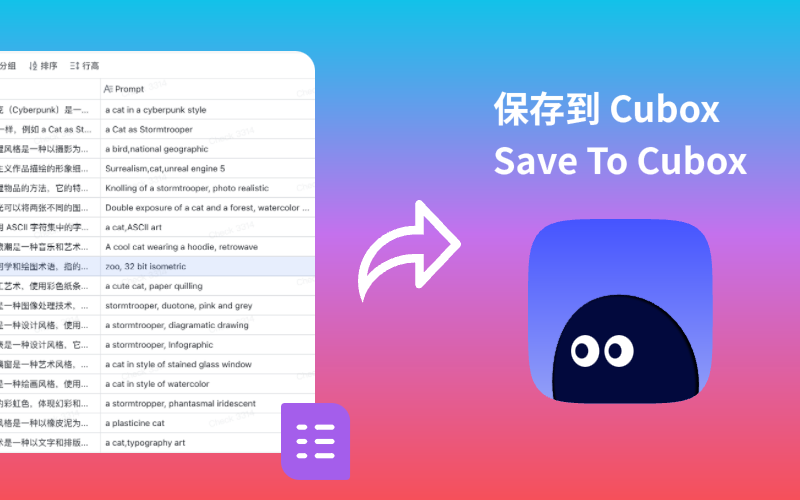
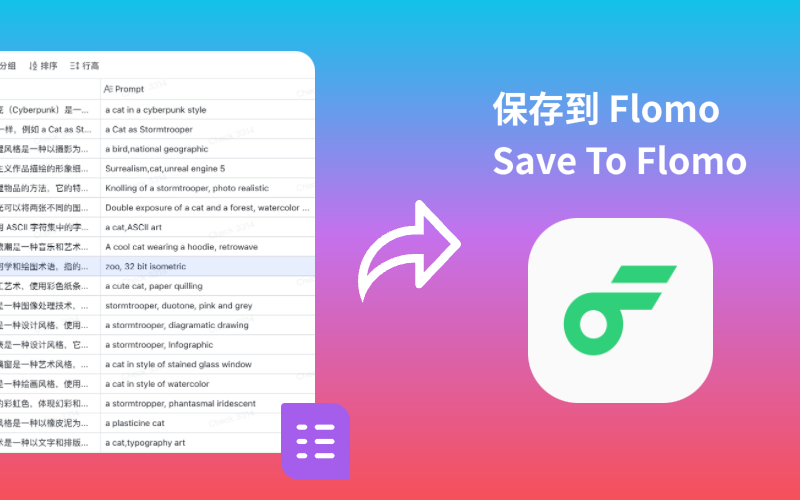
feat: 更新说明

Changed region(s): [[0.6562, 0.42, 0.9062, 0.81], [0.625, 0.18, 0.9375, 0.36]]

diff --git a/README.md b/README.md
@@ -4,14 +4,14 @@
 
 ## 功能描述
 
-保存选中记录到 Cubox。
+保存选中记录到 Flomo。
 
 ## 插件使用说明
 
-使用 Cubox API，将表格中选中的记录保存到 Cubox 中。
-- 从 Cubox 官网中获取 API 链接，填入设置中。
-- 选中记录后，点击保存，即可保存到 Cubox。
-- 可以设置收藏夹和标签。
+使用 Flomo API，将表格中选中的记录保存到 Flomo 中。
+- 从 Flomo 官网中获取 API 链接，填入设置中。
+- 选中记录后，点击保存，即可保存到 Flomo。
+- 可以设置标签。
 
 ## 插件模板
 
